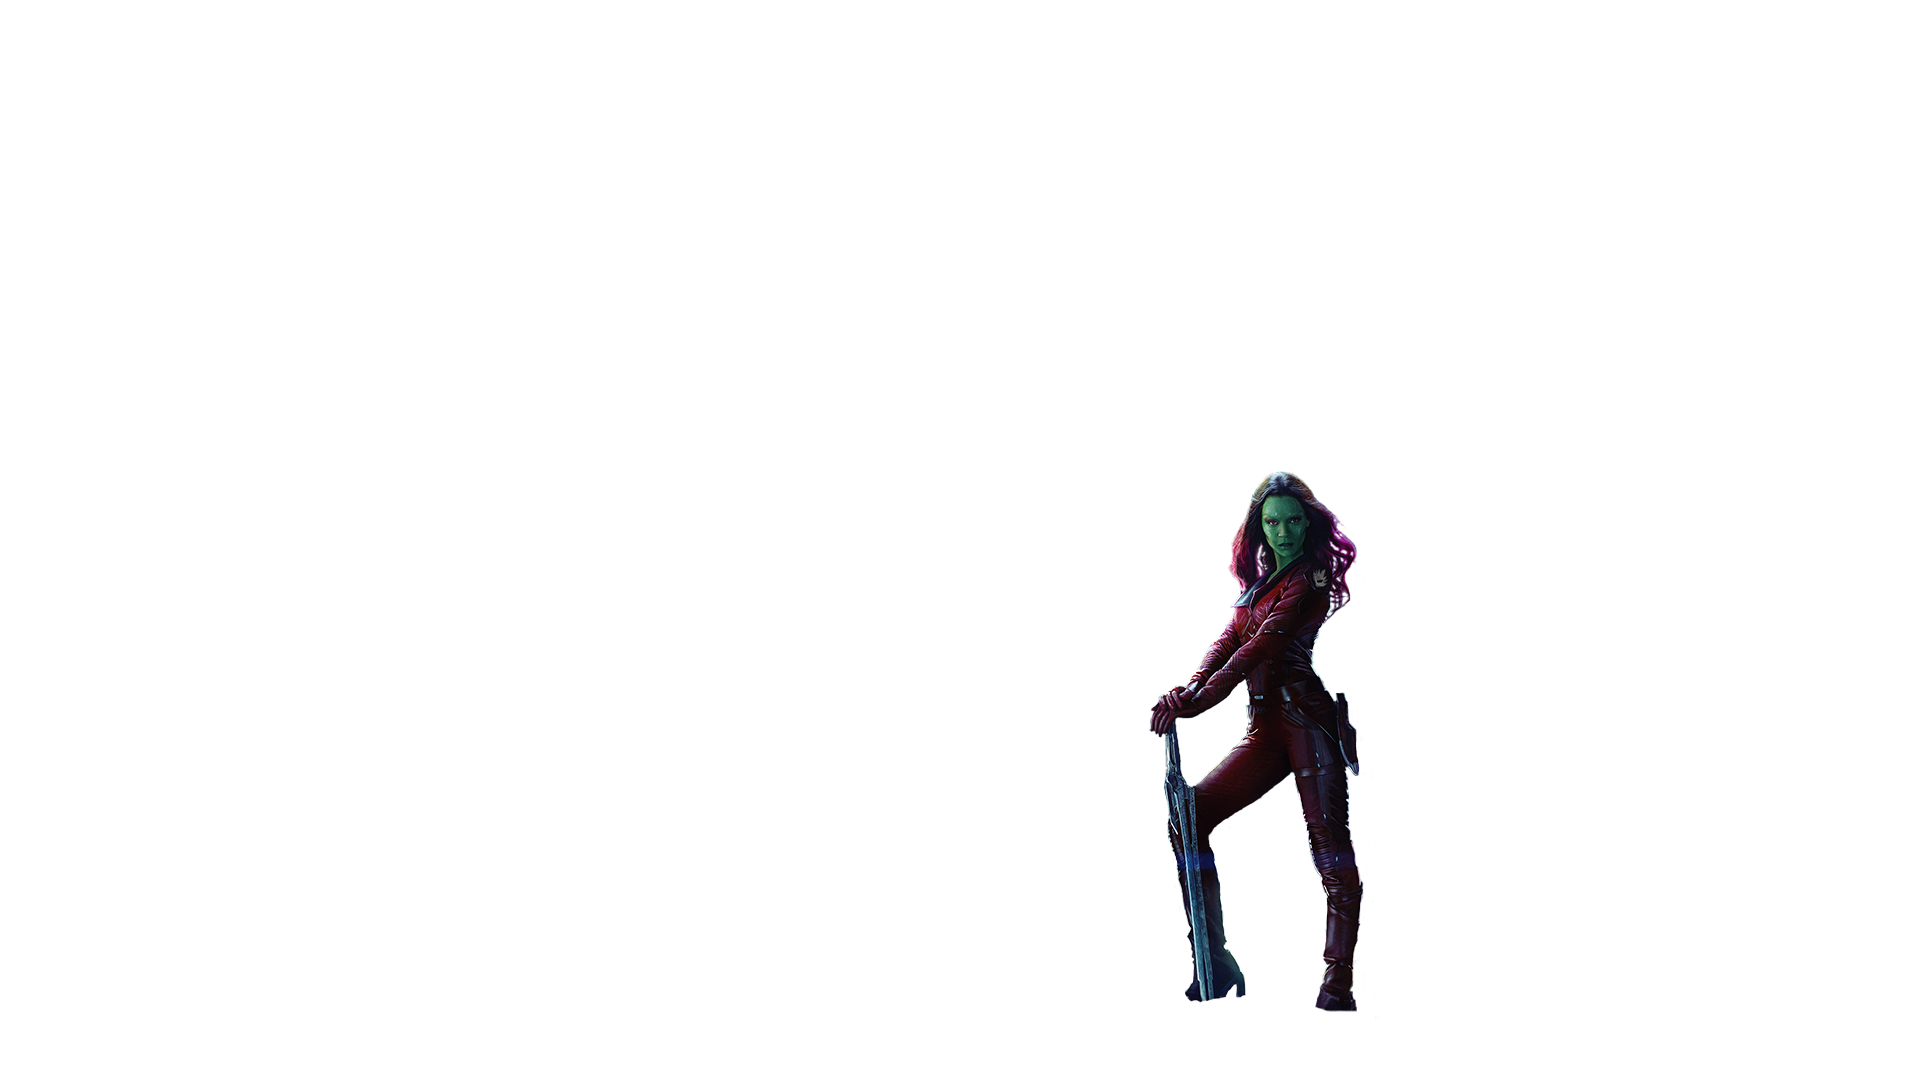
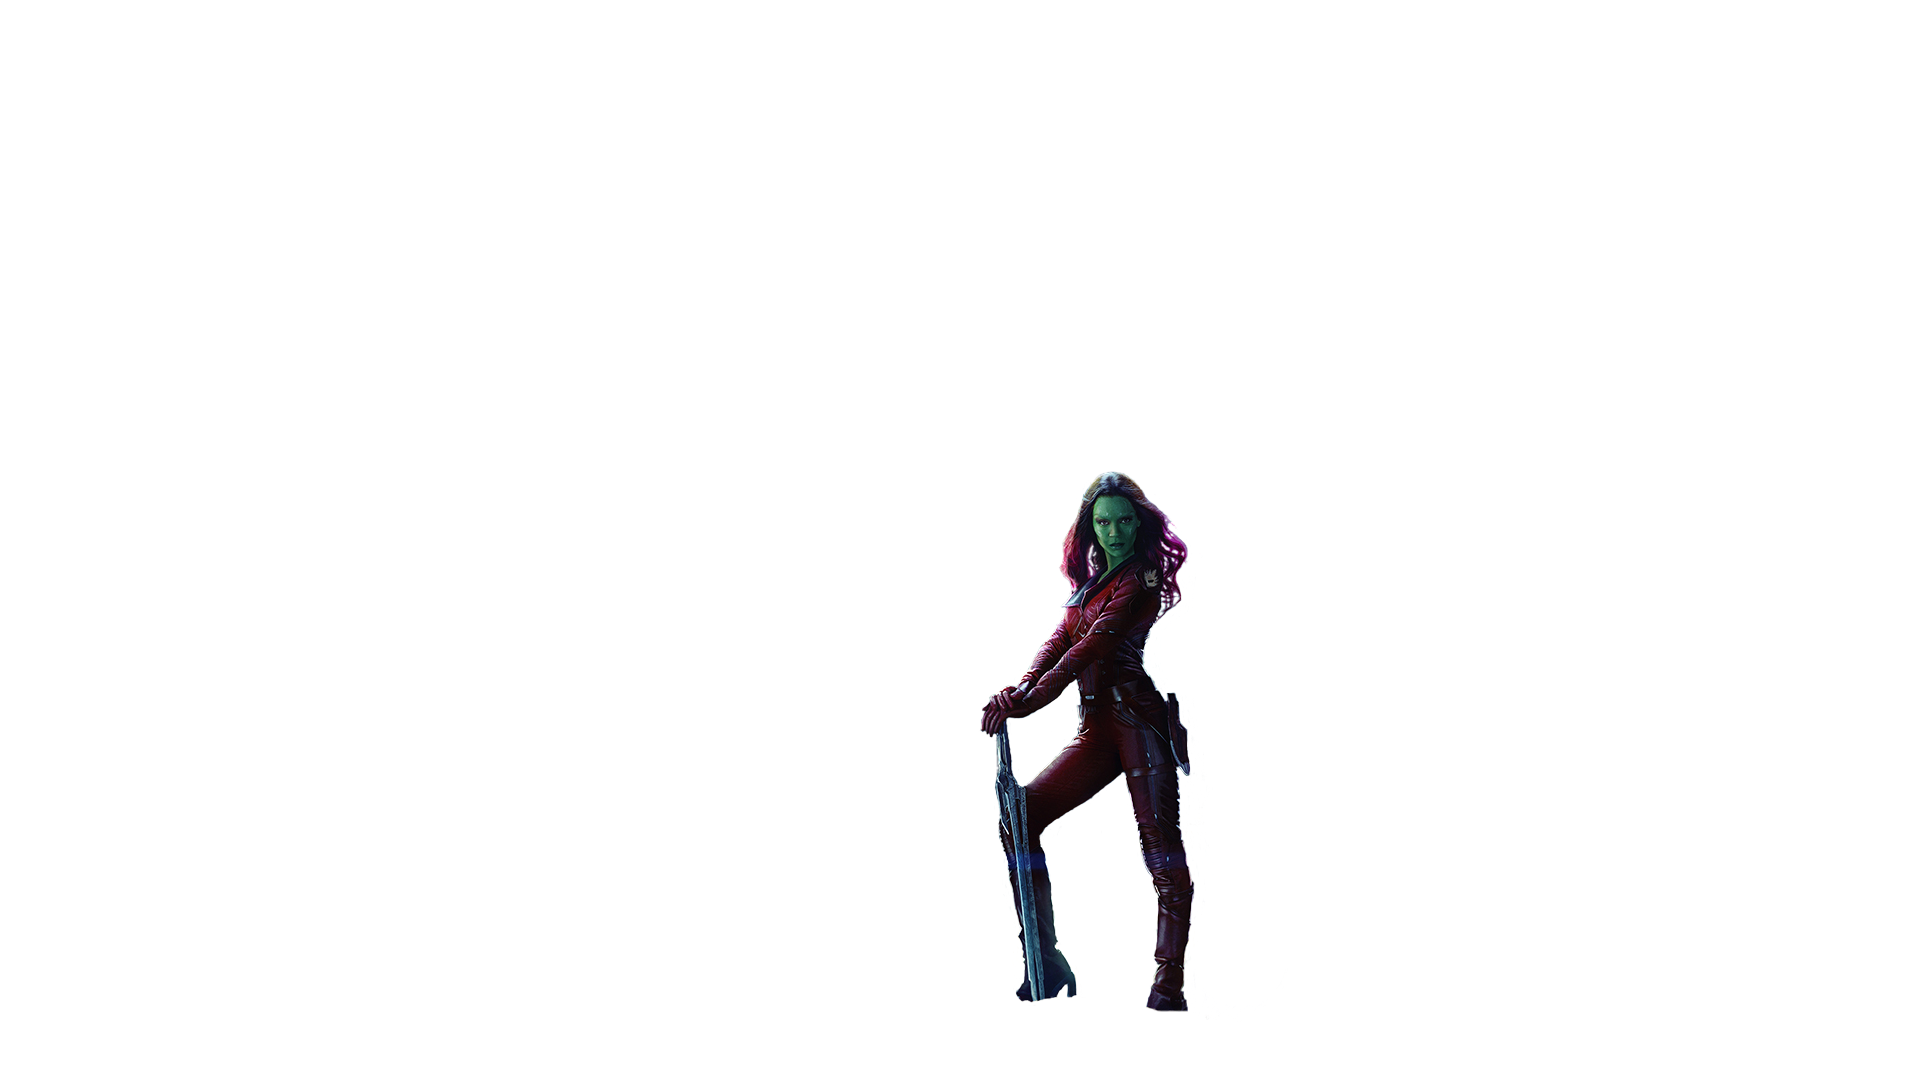
cabecera terminada y pantalla de carga

Changed region(s): [[0.5, 0.4278, 0.7188, 0.9472]]

diff --git a/index.html b/index.html
@@ -5,23 +5,44 @@
         <meta name="viewport" content="width=device-width, initial-scale=1.0">
         <link rel="stylesheet" href="estilos/styles.css">
         <link rel="stylesheet" href="estilos/normalize.css">
+
+        <link rel="preconnect" href="https://fonts.googleapis.com">
+        <link rel="preconnect" href="https://fonts.gstatic.com" crossorigin>
+        <link href="https://fonts.googleapis.com/css2?family=Space+Mono:wght@700&display=swap" rel="stylesheet">
+
+        <link rel="preconnect" href="https://fonts.googleapis.com">
+        <link rel="preconnect" href="https://fonts.gstatic.com" crossorigin>
+        <link href="https://fonts.googleapis.com/css2?family=Nabla&display=swap" rel="stylesheet">
         <title>Guardianes de la galaxia - todo lo que necesitas saber</title>
     </head>
     <body>
-        <header class="cabecera">
-            <img id="cabecera__galaxia" src="img/fondo.png" alt="una galaxia">
-            <img class="cabecera__elemento" data-velx="0.06" data-vely="0.1" id="cabecera__nebula" src="img/nebula.png" alt="personaje nebula">
-            <img id="cabecera__niebla" src="img/niebla.png" alt="niebla">
-            <img class="cabecera__elemento" data-velx="0.04" data-vely="0.13" id="cabecera__logo" src="img/logo.png" alt="logo de los guardianes de la galaxia">
-            <img class="cabecera__elemento" data-velx="0.17" data-vely="0.2" id="cabecera__mantis" src="img/mantis.png" alt="personaje mantis">
-            <img class="cabecera__elemento" data-velx="0.18" data-vely="0.2" id="cabecera__gamora" src="img/gamora.png" alt="personaje gamora">
-            <img class="cabecera__elemento" data-velx="0.08" data-vely="0.15" id="cabecera__groot" src="img/groot.png" alt="personaje groot">
-            <img class="cabecera__elemento" data-velx="0.19" data-vely="0.2" id="cabecera__drax" src="img/drax.png" alt="personaje drax">
-            <img class="cabecera__elemento" data-velx="0.26" data-vely="0.25" id="cabecera__quill" src="img/quill.png" alt="personaje quill">
-            <img class="cabecera__elemento" data-velx="0.28" data-vely="0.25" id="cabecera__rocket" src="img/rocket.png" alt="personaje rocket">
-            <img class="cabecera__elemento" data-velx="0.3" data-vely="0.29" id="cabecera__suelo" src="img/tierra.png" alt="un suelo de piedra">
-            <div class="cabecera__sombra"></div>
+        <div class="pantallaCarga"><p class="pantallaCarga__texto"></p></div>
+        <header>
+            <div class="cabecera">
+                <img id="cabecera__galaxia" src="img/fondo.png" alt="una galaxia">
+                <img class="cabecera__elemento" data-velx="0.06" data-vely="0.1" id="cabecera__nebula" src="img/nebula.png" alt="personaje nebula">
+                <img id="cabecera__niebla" src="img/niebla.png" alt="niebla">
+                <img class="cabecera__elemento" data-velx="0.04" data-vely="0.13" id="cabecera__logo" src="img/logo.png" alt="logo de los guardianes de la galaxia">
+                <img class="cabecera__elemento" data-velx="0.11" data-vely="0.18" id="cabecera__mantis" src="img/mantis.png" alt="personaje mantis">
+                <img class="cabecera__elemento" data-velx="0.10" data-vely="0.19" id="cabecera__gamora" src="img/gamora.png" alt="personaje gamora">
+                <img class="cabecera__elemento" data-velx="0.06" data-vely="0.15" id="cabecera__groot" src="img/groot.png" alt="personaje groot">
+                <img class="cabecera__elemento" data-velx="0.15" data-vely="0.20" id="cabecera__drax" src="img/drax.png" alt="personaje drax">
+                <img class="cabecera__elemento" data-velx="0.27" data-vely="0.22" id="cabecera__quill" src="img/quill.png" alt="personaje quill">
+                <img class="cabecera__elemento" data-velx="0.20" data-vely="0.22" id="cabecera__rocket" src="img/rocket.png" alt="personaje rocket">
+                <img class="cabecera__elemento" data-velx="0.29" data-vely="0.25" id="cabecera__suelo" src="img/tierra.png" alt="un suelo de piedra">
+                <div class="cabecera__sombra"></div>
+            </div>
         </header>
+        <nav class="navegador">
+            <ul class="navegador__lista">
+                <li><a class="navegador__lista__elemento" href="#">INICIO</a></li>
+                <li><img class="navegador__lista__elemento__img" src="img/nav__logo.png" alt="logo de los guardianes en un caset"></li>
+                <li><a class="navegador__lista__elemento" href="">FINAL!</a></li>
+            </ul>
+        </nav>
+        <main>
+            
+        </main>
         <script src="script.js"></script>
     </body>
 </html>

diff --git a/estilos/styles.css b/estilos/styles.css
@@ -1,14 +1,35 @@
-.cabecera{width: 100%; height: 100vh; height: 100dvh; position: relative; overflow: hidden;}
+*{scroll-behavior: smooth;}
+body{width: 100%; height: 500vh; overflow-x: hidden; overflow-y: hidden; background-color: #000;}
+
+.pantallaCarga{background: #bdbdbd; height: 100vh; height: 100dvh; width: 100%; position: absolute; top: 0px; left: 0px; display: flex; justify-content: center; align-items: center; z-index: 950; transition: opacity 0.3s;}
+.pantallaCarga__texto{color: #000; font-size: 20px; font-family: 'Space Mono', monospace; user-select: none;}
+
+/*_________________________________________________________________________________CABECERA_________________________________________________________________________________*/
+
+.cabecera{width: 300%; height: calc(100vh + 4px); height:calc(100dvh + 4px); position: relative; overflow: hidden; margin-left: -100%; border-bottom: 4px solid #ffcf32;}
 .cabecera img{position: absolute; top: 50%; left: 50%; height: 100%;}
-#cabecera__galaxia{z-index: 1; top: 0px; left: 0px; width: 100%;}
-#cabecera__nebula{z-index: 2; width: 100%;}
-#cabecera__logo{z-index: 3; width: 100%;}
-#cabecera__groot{z-index: 4; width: 100%;}
-#cabecera__niebla{z-index: 5; top: 0px; left: 0px; width: 100%;}
-#cabecera__mantis{z-index: 6; width: 100%; top: 52%;}
-#cabecera__gamora{z-index: 7; width: 100%;}
-#cabecera__drax{z-index: 8; width: 100%;}
-#cabecera__quill{z-index: 9; width: 100%;}
-#cabecera__rocket{z-index: 10; width: 100%;}
-#cabecera__suelo{z-index: 11; top: 70%; width: 5000px;}
-.cabecera__sombra{z-index: 12; position: absolute; width: 100%; height: 100%; background: radial-gradient(ellipse at center, rgba(0,0,0,0) 60%, rgba(0,0,0,1));}
+#cabecera__galaxia{z-index: 1; top: 0px; left: 33%; width: 34%;}
+#cabecera__nebula{z-index: 2; width: 34%;}
+#cabecera__logo{z-index: 3; width: 34%;}
+#cabecera__groot{z-index: 4; width: 34%;}
+#cabecera__niebla{z-index: 5; top: 0px; left: 33%; width: 34%;}
+#cabecera__mantis{z-index: 6; width: 34%; top: 52%;}
+#cabecera__gamora{z-index: 7; width: 34%;}
+#cabecera__drax{z-index: 8; width: 34%;}
+#cabecera__quill{z-index: 9; left: 46%; width: 34%;}
+#cabecera__rocket{z-index: 10; width: 34%;}
+#cabecera__suelo{z-index: 11; top: 70%; width: 50%;}
+.cabecera__sombra{z-index: 12; position: absolute; width: 34%; left: 33%; height: 100%; background: radial-gradient(ellipse at center, rgba(0,0,0,0) 40%, rgba(0,0,0,1));}
+
+/*_________________________________________________________________________________NAVEGADOR_________________________________________________________________________________*/
+
+.navegador{clip-path: polygon(0 0, 100% 0, 95% 50%, 85% 100%, 15% 100%, 5% 50%); position:sticky; background-color: #202020; height: 50px; top: 0px; width: 100%;  left: 0px; box-shadow: 5px 0px 10px #000; display: flex; justify-content: center; scroll-behavior: smooth; z-index: 900;}
+.navegador__lista{list-style: none; display: flex; align-items: center; height: 100%;}
+.navegador__lista li{min-width: 100px; text-align: center;}
+.navegador__lista__elemento{text-decoration: none; font-family: 'Nabla', cursive; font-size: 20px; letter-spacing: 2px; transition: font-size 0.2s; user-select: none;}
+.navegador__lista__elemento:hover{font-size: 22px;}
+.navegador__lista__elemento:active{font-size: 20px;}
+.navegador__lista__elemento__img{height: 40px;}
+
+main{height: 100px;}
+

diff --git a/script.js b/script.js
@@ -1,14 +1,57 @@
+const imagenes = document.getElementsByTagName("img");
+const body = document.querySelector("body");
+const pantallaDeCarga = document.querySelector(".pantallaCarga");
+const textoDeCarga = document.querySelector(".pantallaCarga__texto");
 const elementosCabecera = document.querySelectorAll(".cabecera__elemento");
-let posicionX = 0, posicionY = 0;
+let posicionX = 0, posicionY = 0; // Para la cabecera.
+let imagenesCargadas = 0, textoParaLaCarga = "La pagina se esta cargando..."; // Para la carga de imagenes.
 
+// Ejecuto la maquina de escribir
+document.addEventListener("DOMContentLoaded",()=>{
+    maquina(textoParaLaCarga, textoDeCarga);    
+});
 
+// Para hacer el movimineto de la cabecera.
 window.addEventListener("mousemove", (e)=>{
     posicionX = e.clientX - window.innerWidth / 2;
     posicionY = e.clientY - window.innerHeight / 2;
-    console.log(posicionX + " " + posicionY)
+
     for (const elemento of elementosCabecera) {
         let velocidadHorizontal = elemento.dataset.velx;
         let velocidadVertical = elemento.dataset.vely;
         elemento.style.transform = `translateX(calc(-50% + ${-posicionX * velocidadHorizontal}px)) translateY(calc(-50% + ${-posicionY * velocidadVertical}px))`;
     }
 });
+
+// Funcion para comprobar si todas las imagenes estan cargadas.
+function comprobarIMG() {
+    if (imagenesCargadas === imagenes.length) {
+        let a = setTimeout(() => {
+            pantallaDeCarga.style.opacity = "0"; // quito la pantalla de carga.
+            body.style.overflowY = "scroll" // le devuelvo el scroll vertical a la pagina.
+            clearTimeout(a);
+        }, 3500);
+    }
+}
+
+// Funcion para ver que imagenes se cargaron.
+for (const img of imagenes) {
+    img.addEventListener(`load`, ()=>{
+        imagenesCargadas ++;
+        comprobarIMG();
+    });
+}
+
+// Funcion que hace el efecto de escribir letra por letra
+function maquina(texto, contenedor) {        
+    let caracteres = texto.split("");
+    let contador = 0;
+    contenedor.innerHTML = "";
+    let tiempo = setInterval(()=>{
+        contenedor.innerHTML += caracteres[contador];
+        contador ++;
+        if(contador === caracteres.length){
+            clearInterval(tiempo);
+        }
+    }, 100);
+}
